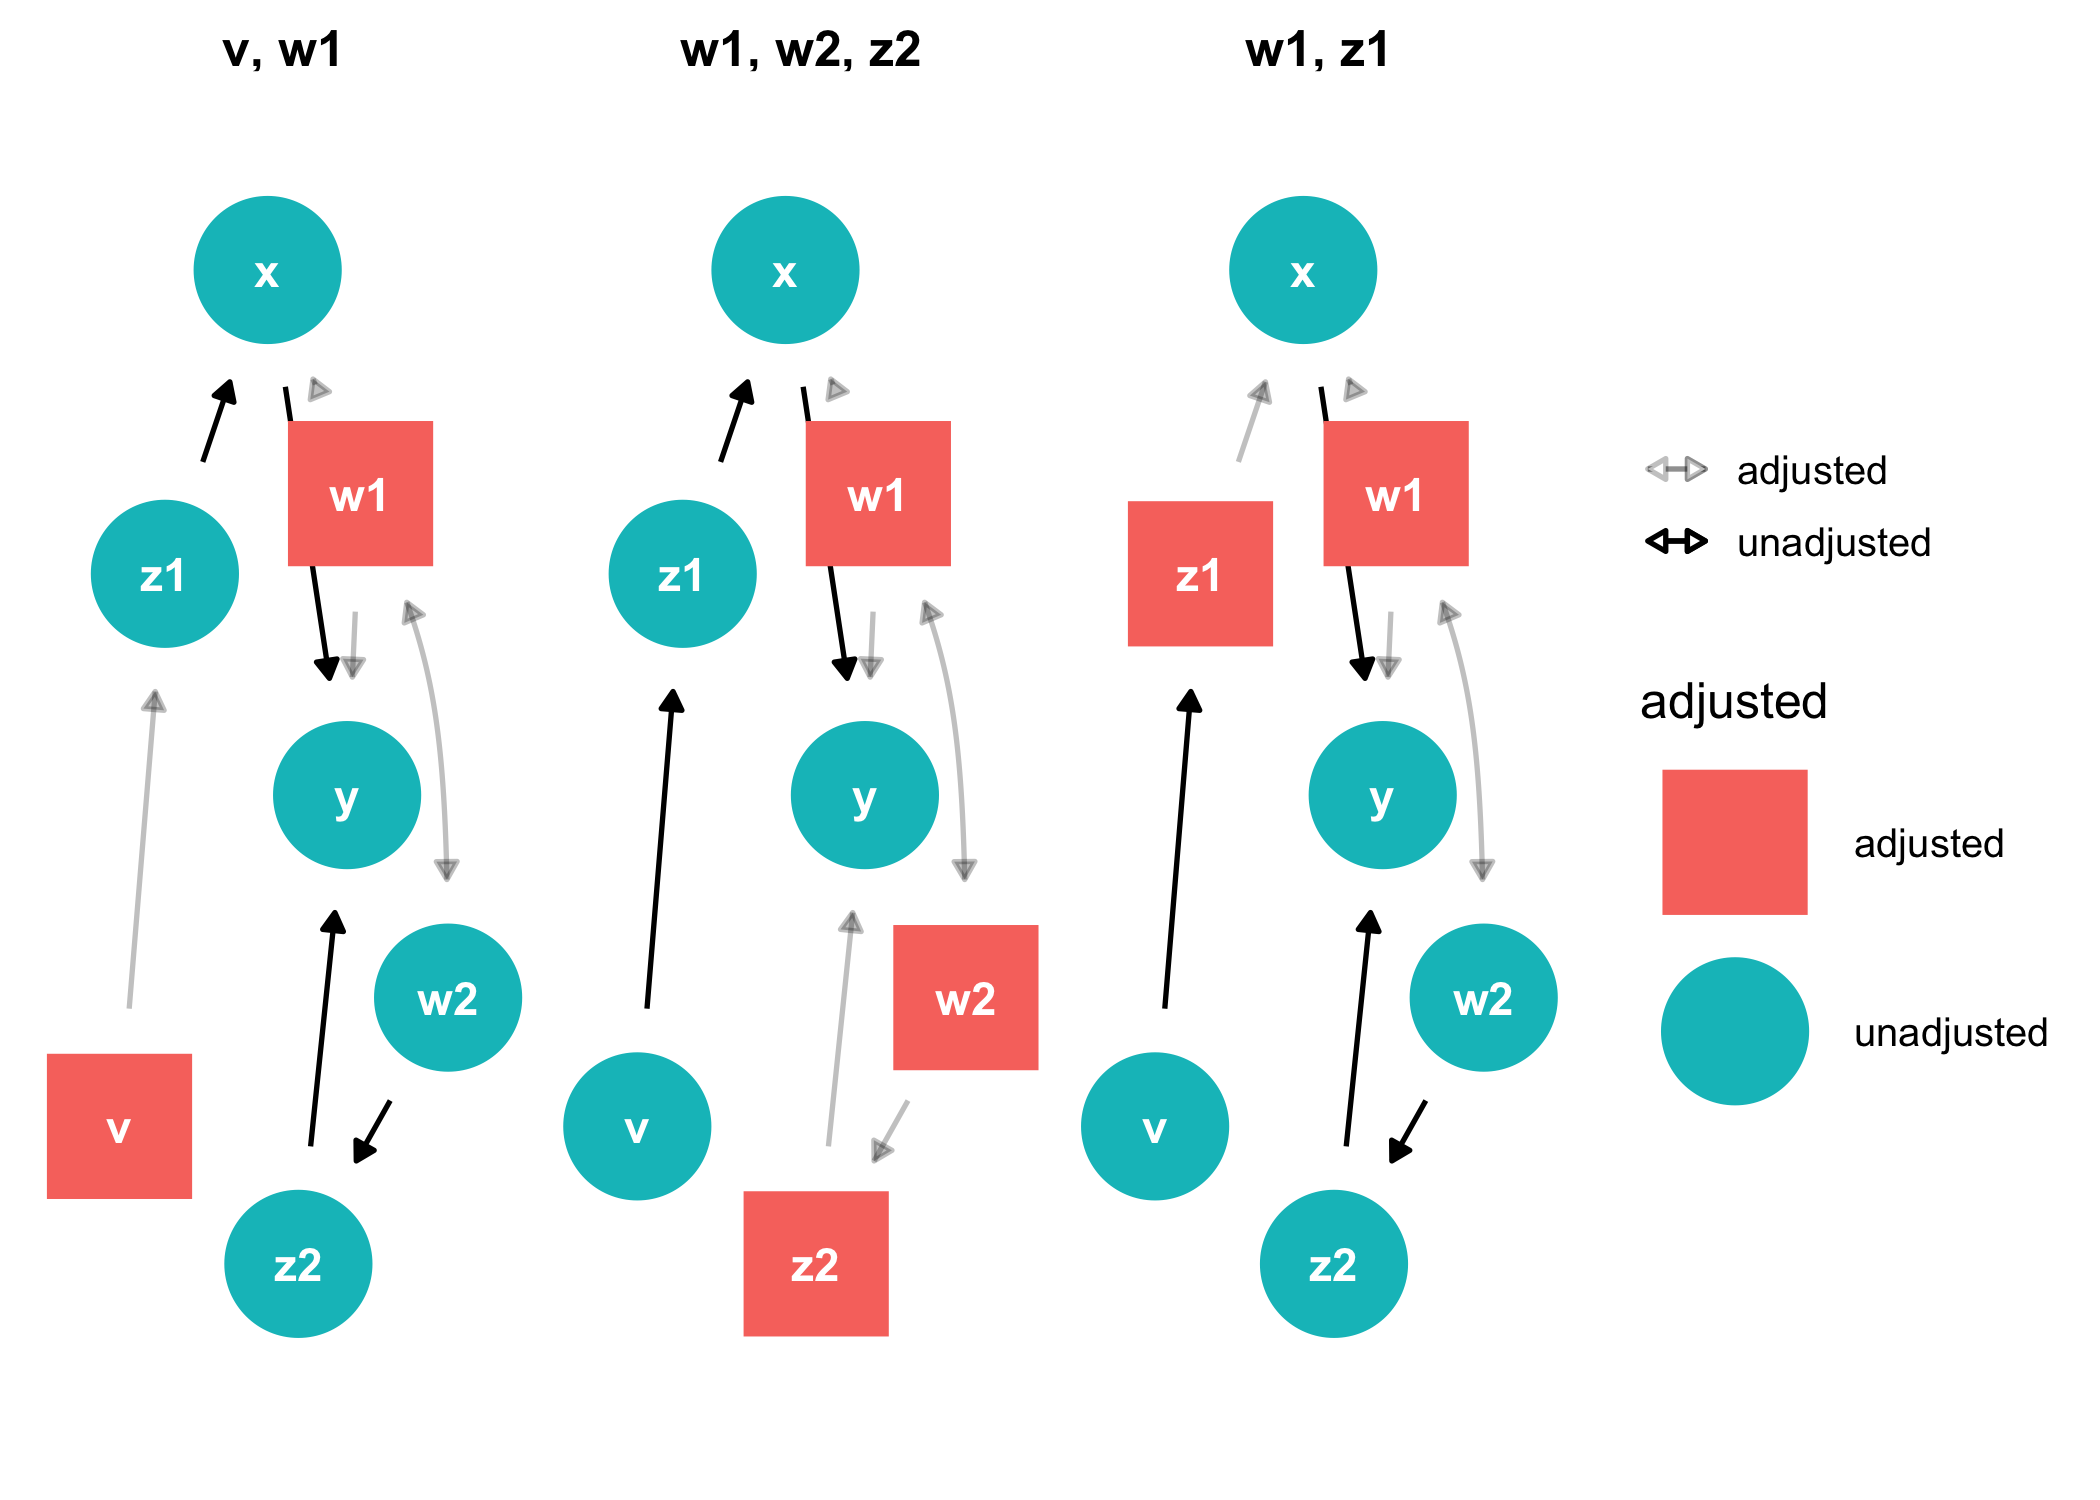
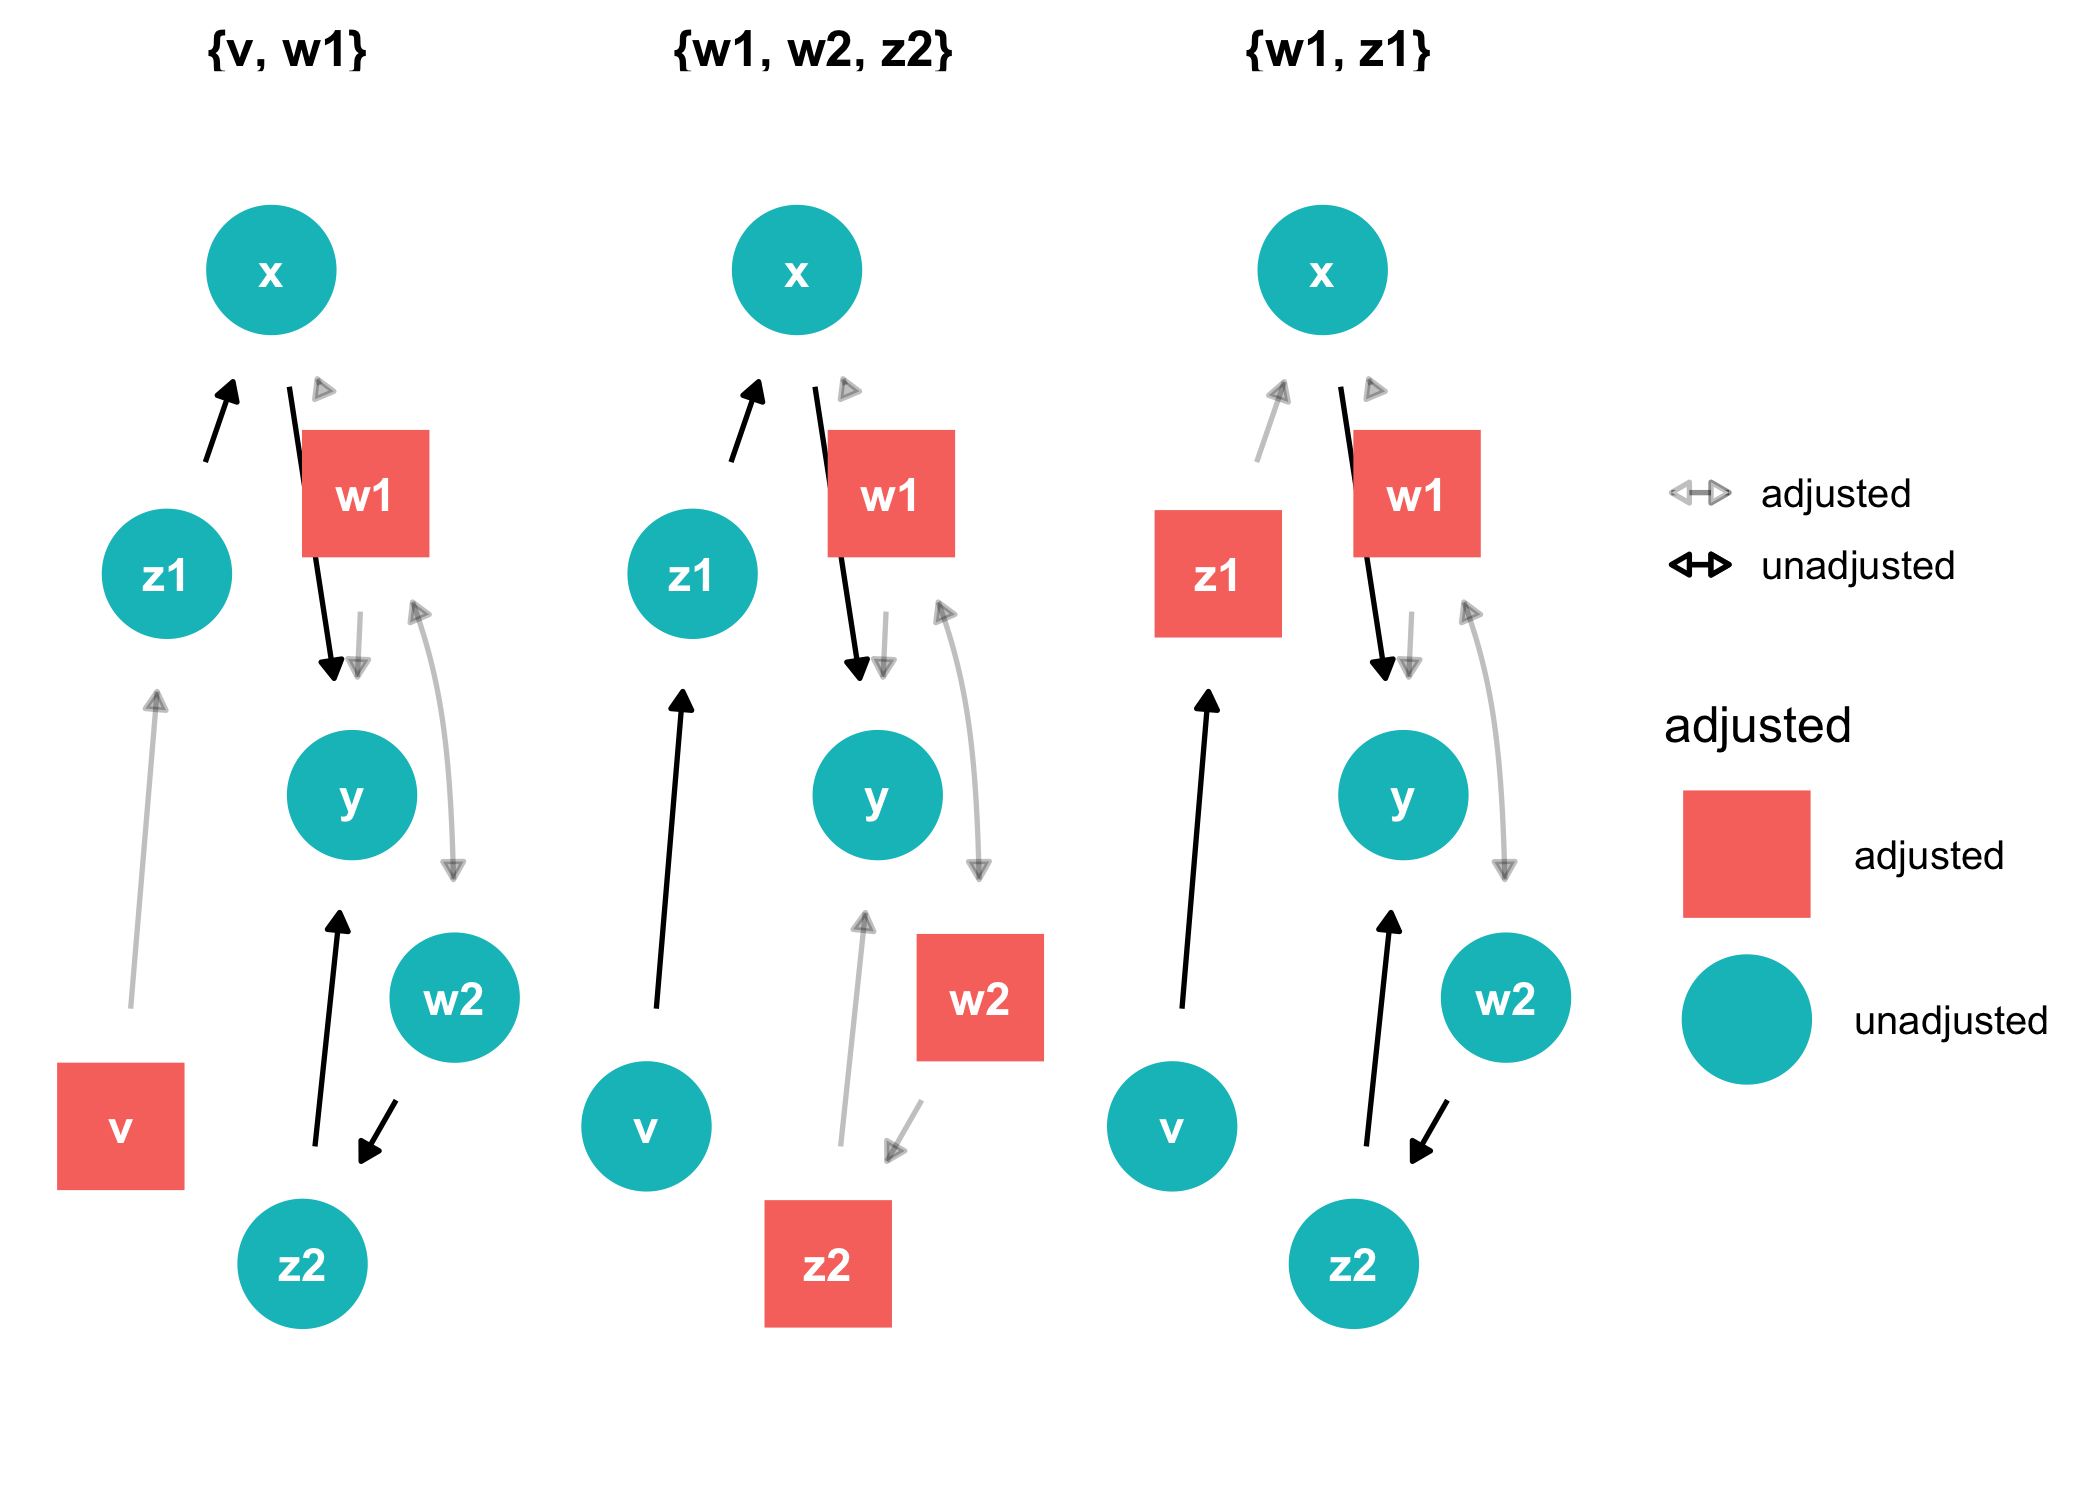
add set {}

diff --git a/README.md b/README.md
@@ -106,7 +106,7 @@ ggdag(tidy_ggdag)
 <img src="man/figures/README-ggdag-1.png" width="100%" />
 
 ``` r
-ggdag_adjustment_set(tidy_ggdag)
+ggdag_adjustment_set(tidy_ggdag, node_size = 14)
 ```
 
 <img src="man/figures/README-ggdag-2.png" width="100%" />
